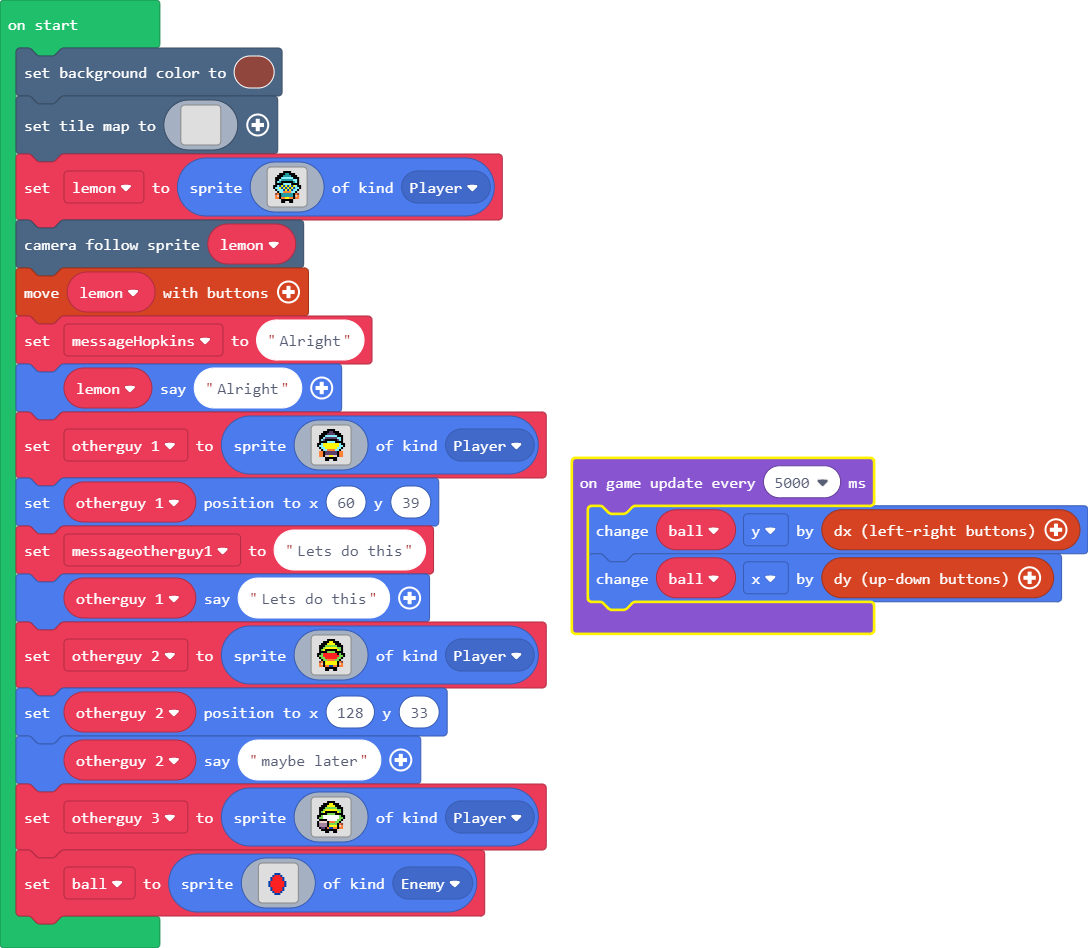
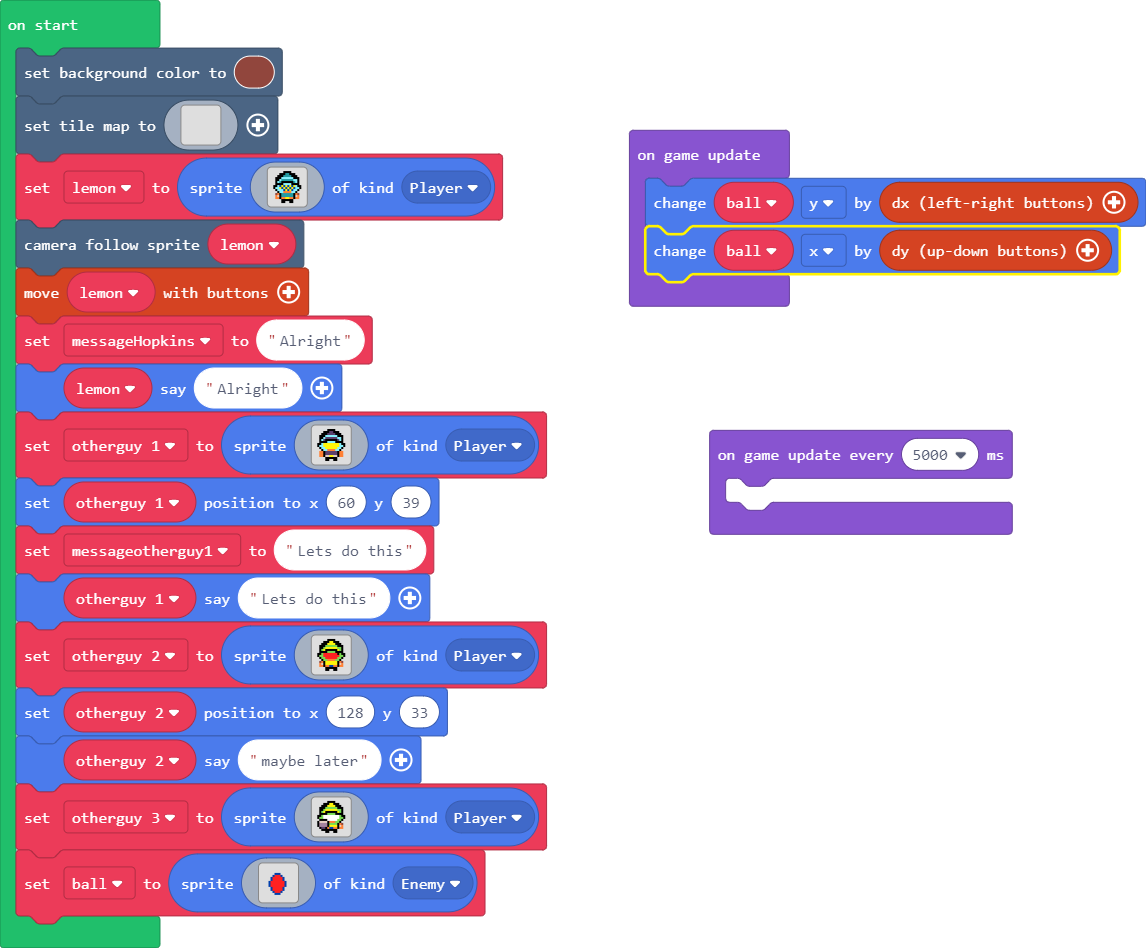
Update main.blocks, main.ts

Changed region(s): [[0.0, 0.0, 1.0, 1.0], [0.5312, 0.1224, 1.0, 0.3365], [0.0312, 0.0, 0.0625, 0.0306]]

diff --git a/main.ts b/main.ts
@@ -110,7 +110,10 @@ let ball = sprites.create(img`
 . . . . . . . . . . . . . . . . 
 . . . . . . . . . . . . . . . . 
 `, SpriteKind.Enemy)
-game.onUpdateInterval(5000, function () {
+game.onUpdate(function () {
     ball.y += controller.dx()
     ball.x += controller.dy()
+})
+game.onUpdateInterval(5000, function () {
+	
 })
